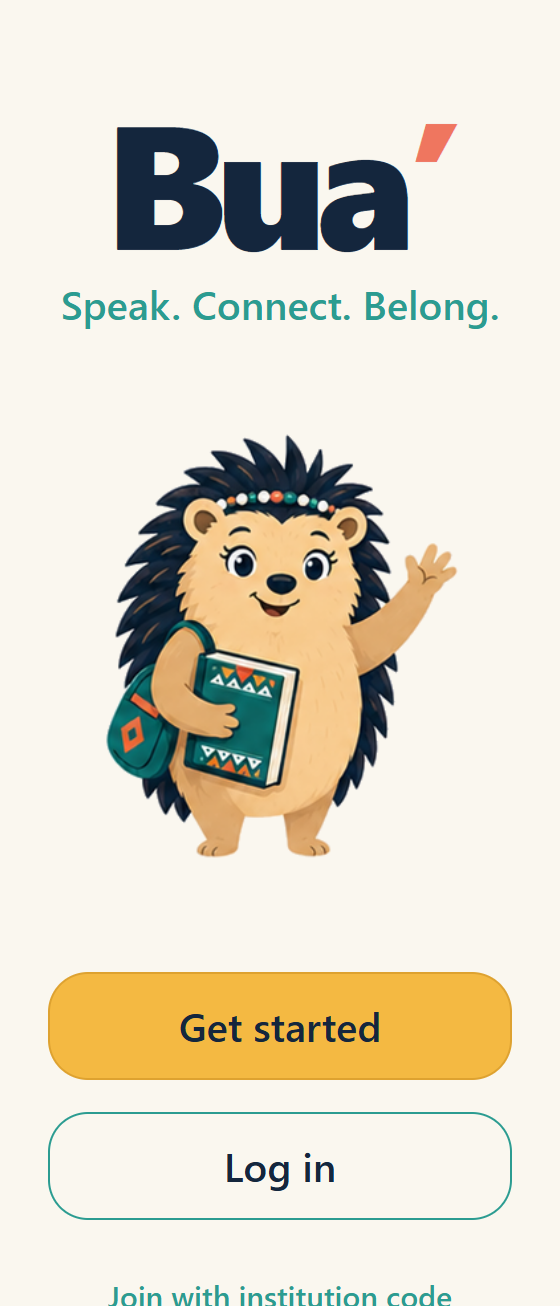
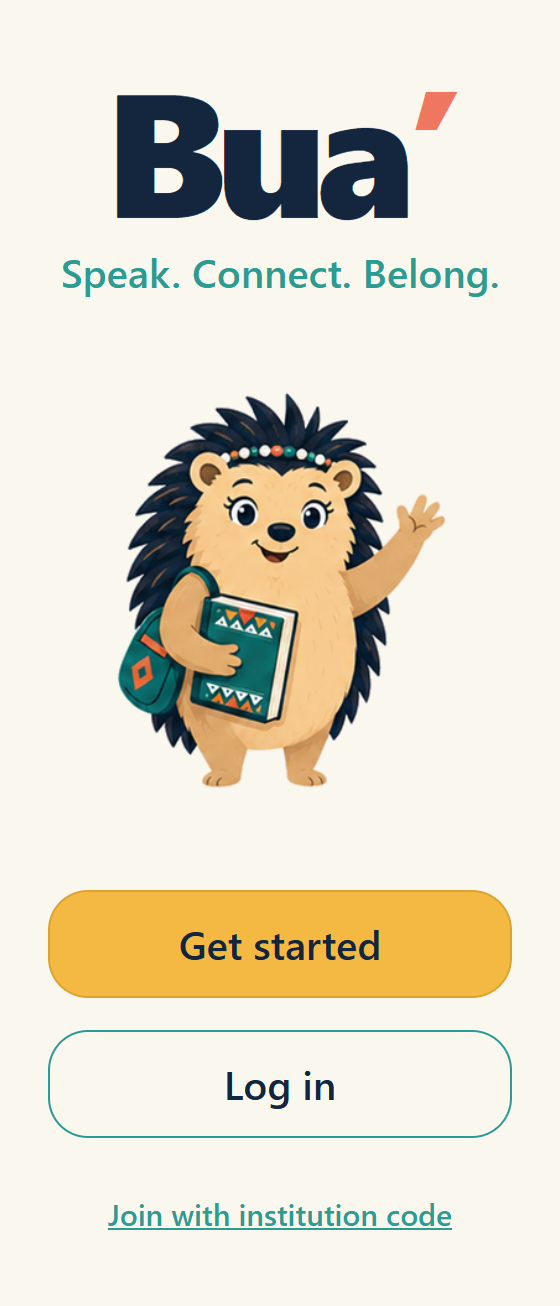
commit

diff --git a/tests/domain/unit-progress.test.ts b/tests/domain/unit-progress.test.ts
@@ -55,4 +55,16 @@ describe('computePathItems', () => {
     const items = computePathItems(shuffled, lessons, []);
     expect(items.map((item) => item.unitId)).toEqual(['unit-a', 'unit-b', 'unit-c']);
   });
+
+  it('unlocks every unit before the placement starting index even if not completed', () => {
+    const items = computePathItems(units, lessons, [], 2);
+    expect(items.map((item) => item.state)).toEqual(['active', 'active', 'active']);
+  });
+
+  it('still locks units past the placement index once a real incomplete unit is hit', () => {
+    const fourUnits = [...units, { id: 'unit-d', courseId: 'course-1', title: 'Unit D', order: 4 }];
+    const fourLessons = [...lessons, lesson('lesson-d1', 'unit-d')];
+    const items = computePathItems(fourUnits, fourLessons, [], 2);
+    expect(items.map((item) => item.state)).toEqual(['active', 'active', 'active', 'locked']);
+  });
 });

diff --git a/tests/domain/starting-unit.test.ts b/tests/domain/starting-unit.test.ts
@@ -1,0 +1,19 @@
+import { startingUnitIndexFor } from '@/features/learning-path/starting-unit';
+
+describe('startingUnitIndexFor', () => {
+  it('starts a brand-new learner at the very first unit', () => {
+    expect(startingUnitIndexFor('new')).toBe(0);
+  });
+
+  it('gives a learner with some experience a head start past the first units', () => {
+    expect(startingUnitIndexFor('a-little')).toBeGreaterThan(0);
+  });
+
+  it('gives a conversational learner a bigger head start than "a-little"', () => {
+    expect(startingUnitIndexFor('conversation')).toBeGreaterThan(startingUnitIndexFor('a-little'));
+  });
+
+  it('defaults to the very first unit when no placement was recorded', () => {
+    expect(startingUnitIndexFor(null)).toBe(0);
+  });
+});

diff --git a/src/features/auth/welcome-screen.tsx b/src/features/auth/welcome-screen.tsx
@@ -57,7 +57,7 @@ export function WelcomeScreen({
         </Text>
       </MotionEntrance>
 
-      <View style={styles.mascotWrap}>
+      <View style={[styles.mascotWrap, { minHeight: mascotSize }]}>
         <Mascot
           accessibilityLabel="Thandi waves with her book"
           motion="coach"
@@ -108,7 +108,6 @@ const styles = StyleSheet.create({
     alignItems: 'center',
     flex: 1,
     justifyContent: 'center',
-    minHeight: 320,
   },
   wordmark: {
     fontSize: 88,

diff --git a/src/features/learning-path/learn-screen.tsx b/src/features/learning-path/learn-screen.tsx
@@ -53,7 +53,7 @@ type LearnScreenProps = {
   onContinueLesson: () => void;
   onQuickReview: () => void;
   onSelectUnit?: (unitId: string) => void;
-  path?: PathItem[];
+  path?: PathItem[] | undefined;
 };
 
 export function LearnScreen({
